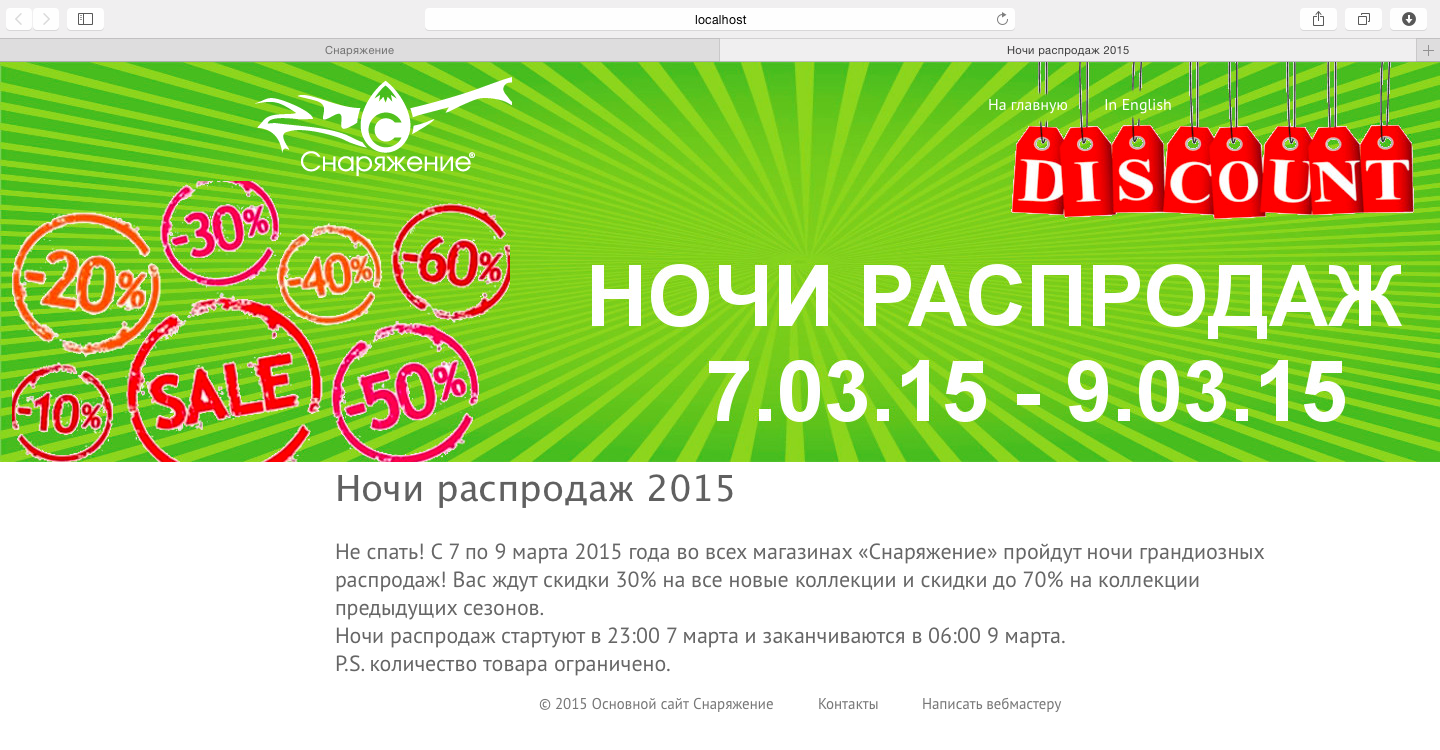
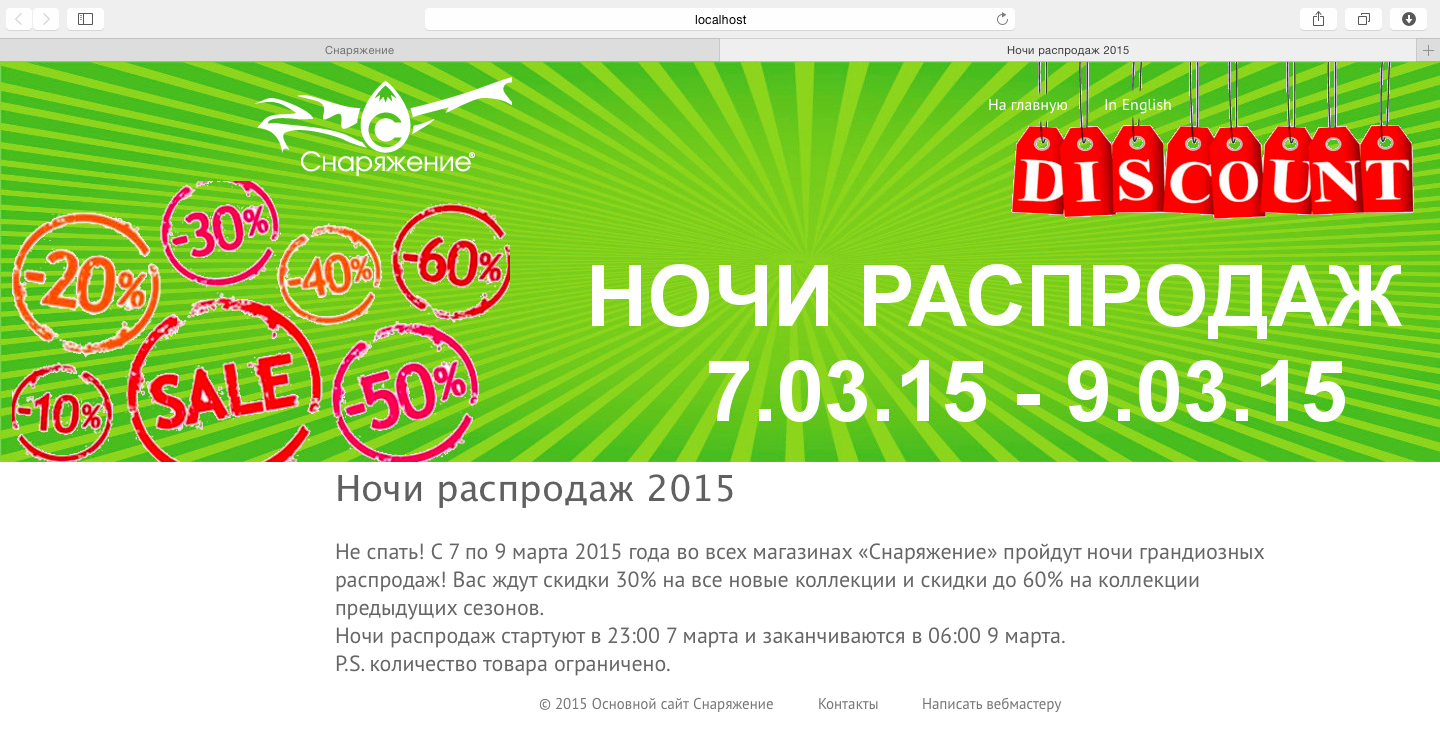
Fix adv

Changed region(s): [[0.0, 0.0301, 1.0, 0.6913], [0.2188, 0.7213, 0.875, 0.9918], [0.5625, 0.9317, 0.75, 0.9918]]

diff --git a/crazy_nigth.html b/crazy_nigth.html
@@ -31,7 +31,7 @@
             <div class="main-content"><h1>Ночи распродаж 2015</h1>
 
                 <p class="important">Не спать! C 7 по 9 марта 2015 года во всех магазинах «Снаряжение» пройдут ночи грандиозных распродаж!
-                    Вас ждут скидки 30% на все новые коллекции и скидки до 70% на коллекции предыдущих сезонов. <br>
+                    Вас ждут скидки 30% на все новые коллекции и скидки до 60% на коллекции предыдущих сезонов. <br>
                     Ночи распродаж стартуют в 23:00 7 марта и заканчиваются в 06:00 9 марта.<br>
                     P.S. количество товара ограничено.
                 </p>
